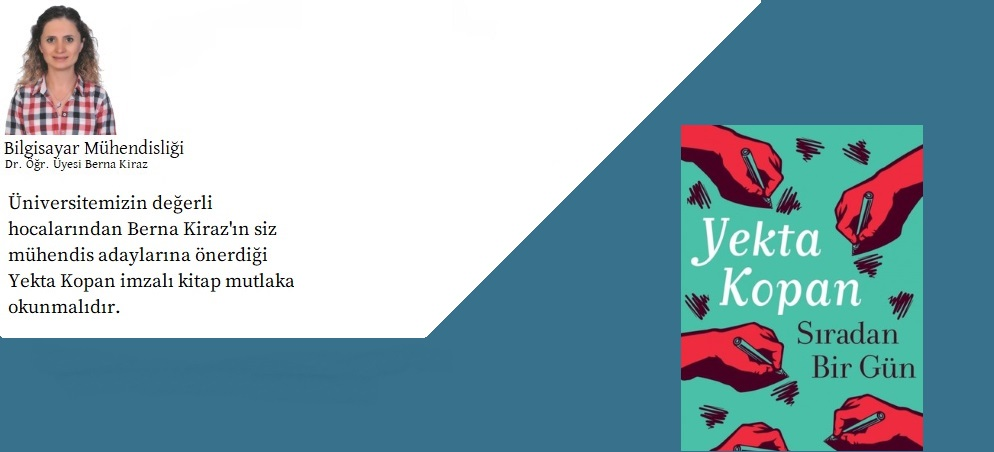
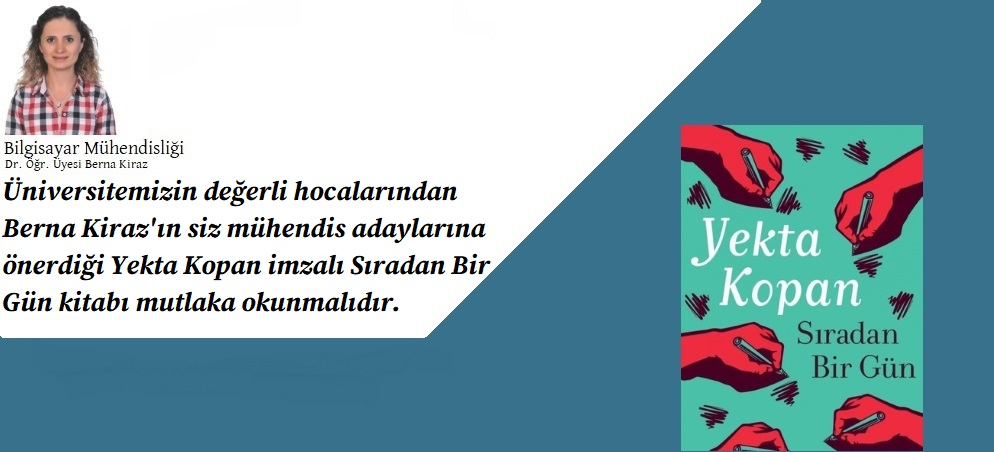
new commit2

Changed region(s): [[0.0, 0.5575, 0.499, 0.7124], [0.0, 0.4027, 0.499, 0.5265]]

diff --git a/lib/screens/home/home.dart b/lib/screens/home/home.dart
@@ -45,7 +45,7 @@ class _HomeState extends State<Home> {
   Widget build(BuildContext context) {
     Widget teacherofAdvice = Image(
       image: NetworkImage(
-          'https://raw.githubusercontent.com/cagriustun/okuyan_muhendis/master/assets/advice/ad1.jpg'),
+          'https://raw.githubusercontent.com/cagriustun/okuyan_muhendis/master/assets/advice/ad2.jpg'),
       height: 200.0,
     );
 
